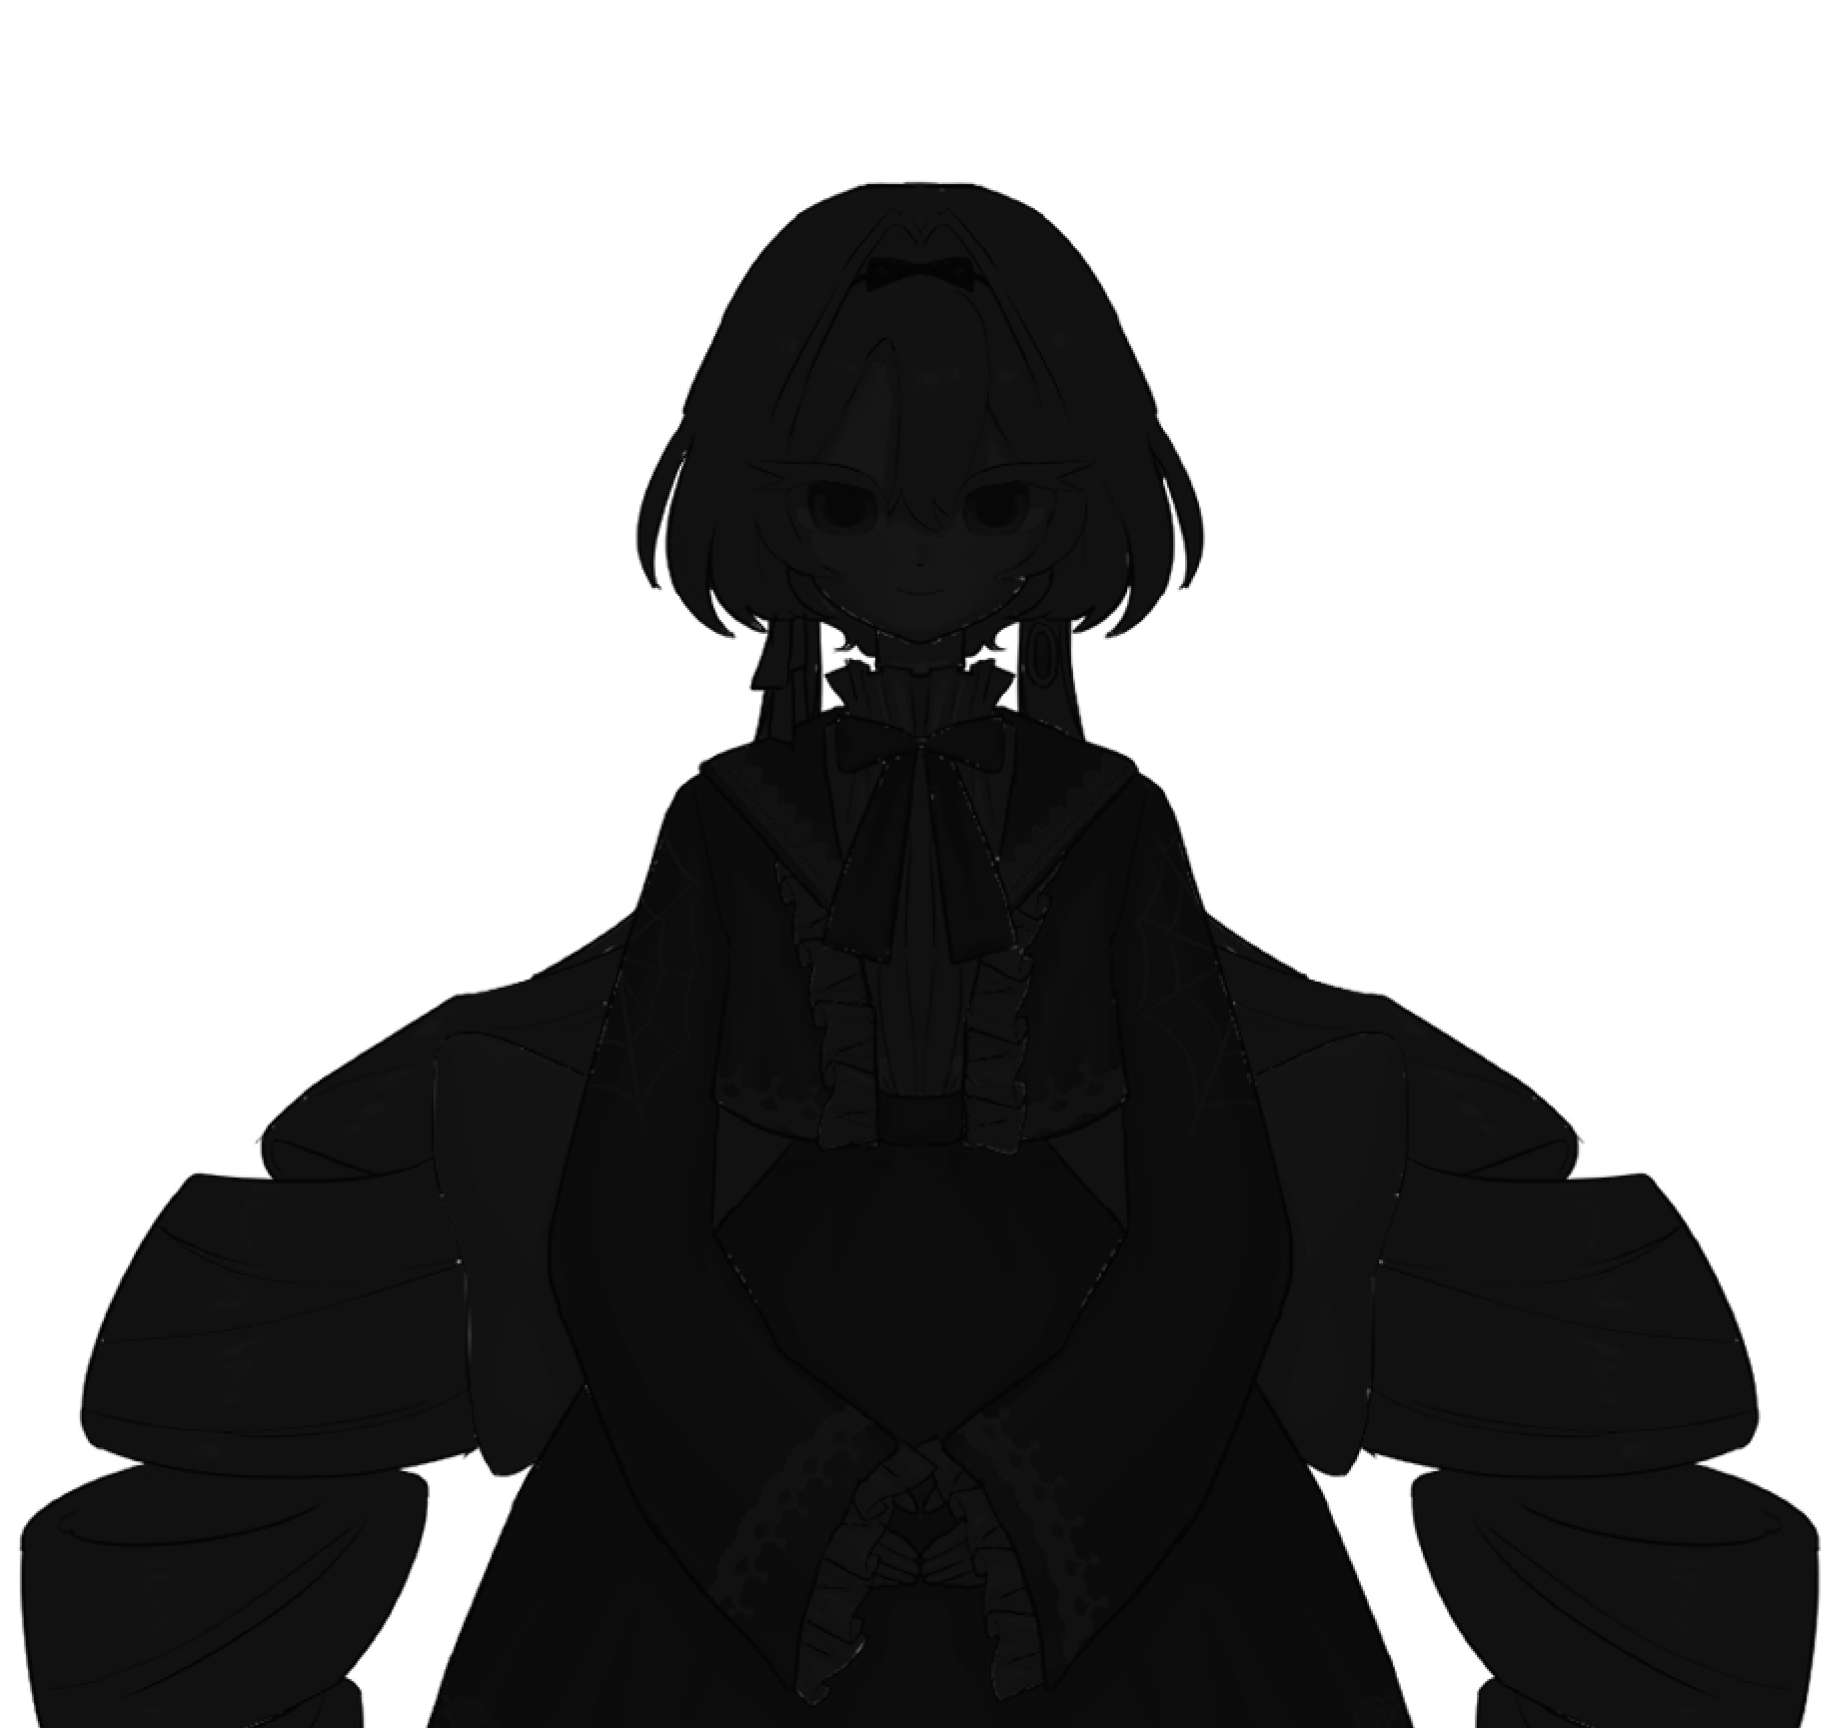
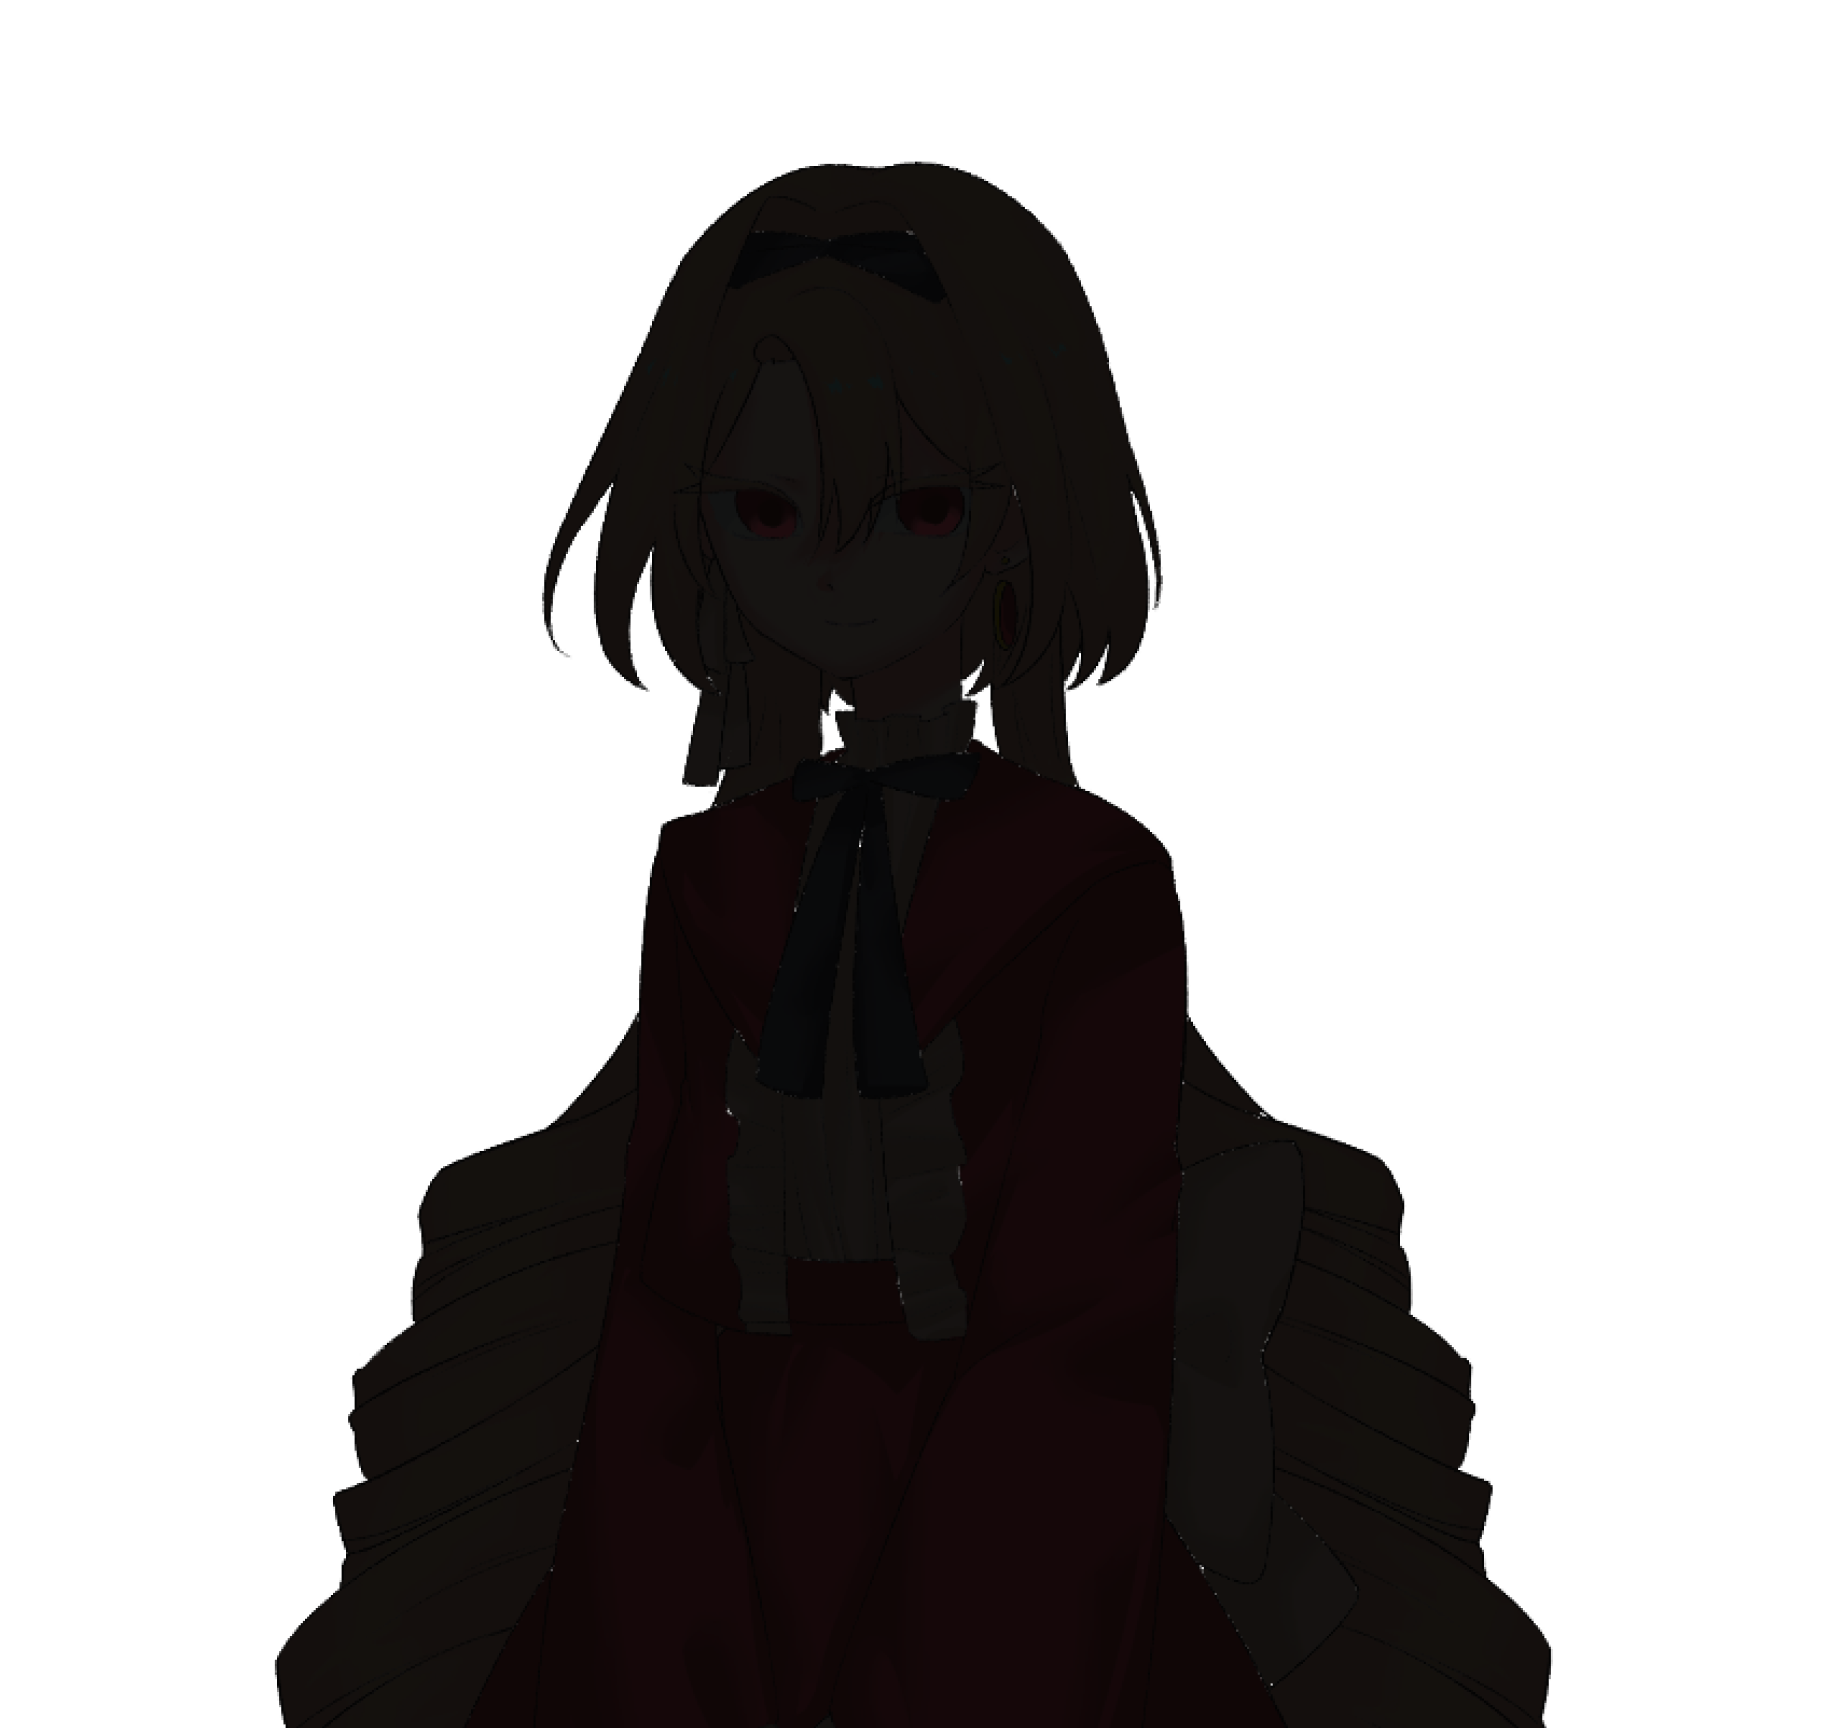
refactor: rename dialogScript.js to d0_DialogScript.js

Changed region(s): [[0.0, 0.0938, 0.5607, 1.0], [0.5295, 0.1562, 0.9967, 1.0], [0.5607, 0.125, 0.5918, 0.1562]]

diff --git a/public/d1_DialogScript.js b/public/d1_DialogScript.js
@@ -1,0 +1,50 @@
+/*
+VISUAL
+bg — background image path (including cg)
+charCG — character sprite image path
+
+TEXT
+charName — name shown in the nameplate (blank/space = narrator, no nameplate)
+text — the dialogue/narration text
+
+AUDIO
+soundEffect — plays via AudioManager (BGM, ambience, one-shot SFX)
+stopSound — stops a sound; can be a path string or { path, fadeMs }
+fadeSoundMs — fade duration in ms when used alongside stopSound
+diaAudio — voiceover file for this line (plays on the isolated private channel)
+*/
+
+// ALL SCRIPTS
+// - d1_vnScript_morning
+// - d1_vnScript_lunch
+// - d1_vnScript_afternoon
+// - d1_vnScript_dinner
+// - d1_vnScript_night
+
+// const exampleString = [
+//   {
+//     charName: " ",
+//     charCG: "assets/charImg/char_ara_smiling.png",
+//     bg: "assets/bg/bg_BlackOut.png",
+//     text: "This was already shaping up to be an... unusual job.",
+//     diaAudio: "d0_dia_01.mp3",
+//     soundEffect: "assets/audio/dia_step.mp3",
+// },
+// ];
+
+const d1_vnScript_morning = [
+  {
+    charName: " ",
+    bg: "assets/bg/bg_BlackOut.png",
+    text: "You awaken to the sound of birds chattering outside your window. You realize it is time to do your duty – wake Eva up.",
+    soundEffect: "assets/audio/dia_birdChatter.mp3",
+  },
+  {
+    charName: " ",
+    charCG: "assets/charImg/char_ara_smiling.png",
+    bg: "assets/bg/bg_BlackOut.png",
+    text: "This was already shaping up to be an... unusual job.",
+    diaAudio: "d0_dia_01.mp3",
+    soundEffect: "assets/audio/dia_step.mp3",
+  },
+];